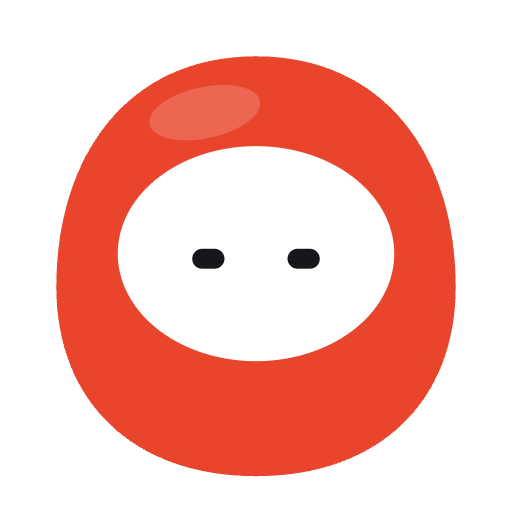
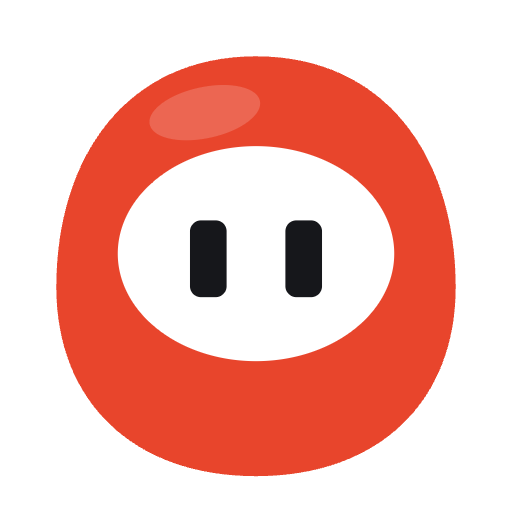
Paused, the daruma's eyes are the pause symbol
At the owner's request. Both eyes become Eye.pause — upright bars with rounded corners, a little
larger than an open eye — in the notch, the menu bar and the kit's paused expression, instead of
drowsy eyes that read as tired rather than stopped. Upright at any gaze and unblinking, so it
stays ⏸; narrowed as it turns, so it stays on the body.

Verified: Core figure, outline (the bar), app-source and prose tests; the probe (484); the app
builds; the kit's paused expression looked at. Each new Core test red under its mutation (tilt,
blink). Not run: the app tests, with the new pose expectations — the owner's Soredemo was running.

Changed region(s): [[0.5312, 0.4062, 0.6562, 0.5938], [0.3438, 0.4062, 0.4688, 0.5938]]

diff --git a/Core/Tests/RenderTests/CharacterAssets.swift b/Core/Tests/RenderTests/CharacterAssets.swift
@@ -36,6 +36,8 @@ private func eyeSVG(_ e: DarumaFigure.EyeMark, ink: String, red: String) -> Stri
     case .open, .sad:
         let r = min(e.width, e.height) / 2
         return "<rect x=\"\(n(e.x - e.width / 2))\" y=\"\(n(e.y - e.height / 2))\" width=\"\(n(e.width))\" height=\"\(n(e.height))\" rx=\"\(n(r))\" fill=\"\(ink)\" transform=\"rotate(\(n(e.tilt)) \(n(e.x)) \(n(e.y)))\"/>"
+    case .pause:
+        return "<rect x=\"\(n(e.x - e.width / 2))\" y=\"\(n(e.y - e.height / 2))\" width=\"\(n(e.width))\" height=\"\(n(e.height))\" rx=\"\(n(e.width * 0.3))\" fill=\"\(ink)\"/>"
     case .record:
         return "<circle cx=\"\(n(e.x))\" cy=\"\(n(e.y))\" r=\"\(n(e.width * 0.8))\" fill=\"\(red)\"/>"
 
@@ -145,7 +147,7 @@ private let recording = DarumaFace(right: .record)
     try write("svg/soredemo-character-white.svg", svg(100, oneColourGroup(.resting, "#FFFFFF")))
     // Expressions, in the default colour.
     let faces: [(String, DarumaFace)] = [("resting", .resting), ("looking", looking), ("recording", recording),
-                                         ("paused", DarumaFace(openness: 0.3)), ("done", DarumaFace(left: .happy, right: .happy)),
+                                         ("paused", DarumaFace(left: .pause, right: .pause)), ("done", DarumaFace(left: .happy, right: .happy)),
                                          ("asleep", DarumaFace(left: .closed, right: .closed)), ("sad", DarumaFace(left: .sad, right: .sad))]
     for (name, face) in faces {
         try write("svg/expressions/soredemo-character-\(name).svg", svg(100, characterGroup(face, vermilion)))

diff --git a/Core/Sources/Render/DarumaFigure.swift b/Core/Sources/Render/DarumaFigure.swift
@@ -5,8 +5,9 @@ import Geometry
 /// expression, and the countdown's ring. Numbers only — the app's reasons for each pose live
 /// beside the app's states (`DarumaPose` there).
 public struct DarumaFace: Equatable, Sendable {
-    /// One eye's expression. `record` is the right eye lit in the record red — the painted eye.
-    public enum Eye: Equatable, Sendable { case open, closed, happy, sad, record }
+    /// One eye's expression. `record` is the right eye lit in the record red — the painted eye;
+    /// `pause` is half the pause symbol, an upright bar.
+    public enum Eye: Equatable, Sendable { case open, closed, happy, sad, record, pause }
 
     /// −1 … 1: where it looks, left to right.
     public var yaw: Double
@@ -132,6 +133,9 @@ public struct DarumaFigure: Equatable, Sendable {
             // A line eye's width is its arc's whole span, a little wider than a pill so it reads —
             // and no wider, or a smile's two arcs meet in the middle (seen 2026-10-26).
             case .closed, .happy: height = 3.4 * size; width *= 1.2
+            // **The pause symbol, not a face**: upright wherever it looks, and unblinking — a bar
+            // that tipped or flattened would stop reading as ⏸. Narrowed as it turns, as an eye is.
+            case .pause: (width, height, tilt) = (8.4 * size * w * max(0.55, cos(ax)), 15 * size * h * max(0.8, cos(ay)), 0)
             }
             return EyeMark(x: x, y: y, width: width, height: max(height, 1.2), tilt: tilt, kind: eye)
         }

diff --git a/Soredemo/DesignSystem/DarumaView.swift b/Soredemo/DesignSystem/DarumaView.swift
@@ -40,12 +40,12 @@ extension DarumaFace {
                           recordPaint: remaining <= 1 ? paint : 1)
     }
 
-    /// The notch, per state: resting when offered; the record eye lit while a take runs; drowsy
-    /// while it is paused; both eyes smiling when it is done.
+    /// The notch, per state: resting when offered; the record eye lit while a take runs; the
+    /// pause symbol for eyes while it is paused; both eyes smiling when it is done.
     static func notch(_ state: NotchSurfaceState, isPaused: Bool) -> DarumaPose {
         switch state {
         case .dormant, .glance, .open: .resting
-        case .live: isPaused ? DarumaPose(openness: 0.3) : DarumaPose(openness: 0.9, right: .record)
+        case .live: isPaused ? DarumaPose(left: .pause, right: .pause) : DarumaPose(openness: 0.9, right: .record)
         case .finished: DarumaPose(left: .happy, right: .happy)
         }
     }
@@ -187,6 +187,8 @@ struct DarumaView: View, Animatable {
         switch e.kind {
         case .open, .sad:
             return Path(CGGeometryBridge.pill(centreX: x, centreY: y, width: e.width * u, height: e.height * u, tilt: e.tilt))
+        case .pause:
+            return Path(CGGeometryBridge.bar(centreX: x, centreY: y, width: e.width * u, height: e.height * u, corner: e.width * 0.3 * u))
         case .record:
             let r = e.width * 0.8 * u
             return Path(CGGeometryBridge.ellipse(centreX: x, centreY: y, radiusX: r, radiusY: r, tilt: 0))

diff --git a/Core/Tests/RenderTests/DarumaFigureTests.swift b/Core/Tests/RenderTests/DarumaFigureTests.swift
@@ -91,3 +91,21 @@ private let gazes: [(Double, Double)] = [(-1, -1), (-1, 0), (-1, 1), (0, -1), (0
     let disc = lit.eyes[1].width * 0.8
     #expect(lit.eyes[1].x - disc > lit.eyes[0].x + lit.eyes[0].width / 2 + 2, "the record eye reaches the other")
 }
+
+/// Paused, both eyes are the pause symbol: two upright bars, taller than an open eye, that stay
+/// upright and do not blink wherever it looks — and stay in the face and on the body.
+@Test func pausedTheEyesAreTwoUprightBars() {
+    let open = DarumaFigure.make(.resting).eyes[0]
+    for (yaw, pitch) in gazes {
+        for window in [true, false] {
+            let f = DarumaFigure.make(DarumaFace(yaw: yaw, pitch: pitch, left: .pause, right: .pause, faceWindow: window), blink: 0.1)
+            for eye in f.eyes {
+                #expect(eye.tilt == 0, "a bar tips at gaze \(yaw), \(pitch)")
+                let off = eye.outline().filter { window ? !f.face.contains(x: $0.x, y: $0.y, margin: 1) : !f.bodyContains(x: $0.x, y: $0.y, margin: 3) }
+                #expect(off.isEmpty, "a bar leaves the \(window ? "face" : "body") at gaze \(yaw), \(pitch)")
+            }
+        }
+    }
+    let bar = DarumaFigure.make(DarumaFace(left: .pause, right: .pause), blink: 0.1).eyes[0]
+    #expect(bar.height > open.height && bar.width > open.width, "taller and wider than an open eye, and unblinking")
+}

diff --git a/SoredemoTests/DarumaPoseTests.swift b/SoredemoTests/DarumaPoseTests.swift
@@ -38,13 +38,14 @@ import Testing
         #expect(DarumaPose.resting.countRing == nil, "nothing counted is no ring")
     }
 
-    /// A face per notch state: offered, it rests; recording, the record eye is lit; paused, it is
-    /// drowsy; done, it smiles with both eyes — the second eye painted.
+    /// A face per notch state: offered, it rests; recording, the record eye is lit; paused,
+    /// its eyes are the pause symbol; done, it smiles with both eyes — the second eye painted.
     @Test func theNotchsDarumaHasAFacePerState() {
         #expect(DarumaPose.notch(.glance, isPaused: false) == .resting)
         #expect(DarumaPose.notch(.live(expanded: true), isPaused: false).right == .record)
         let paused = DarumaPose.notch(.live(expanded: false), isPaused: true)
-        #expect(paused.right != .record && paused.openness < 0.5)
+        #expect(paused.left == .pause && paused.right == .pause, "paused, its eyes are the pause symbol")
+        #expect(DarumaMark.pose(for: .paused).left == .pause && DarumaMark.pose(for: .paused).right == .pause)
         let done = DarumaPose.notch(.finished, isPaused: false)
         #expect(done.left == .happy && done.right == .happy)
     }

diff --git a/Core/Sources/Capture/CGGeometryBridge.swift b/Core/Sources/Capture/CGGeometryBridge.swift
@@ -262,6 +262,13 @@ public enum CGGeometryBridge {
         return path
     }
 
+    /// An upright bar with rounded corners about its centre, in top-left points: half the pause
+    /// symbol the paused daruma's eyes make.
+    public nonisolated static func bar(centreX: Double, centreY: Double, width: Double, height: Double, corner: Double) -> CGPath {
+        CGPath(roundedRect: CGRect(x: centreX - width / 2, y: centreY - height / 2, width: width, height: height),
+               cornerWidth: corner, cornerHeight: corner, transform: nil)
+    }
+
     /// The brush that paints the record eye, in top-left points: one clockwise sweep from twelve
     /// o'clock at half of `radius`, so a stroke as wide as `radius` covers the disc when drawn
     /// whole — the eye fills like a clock hand, as the countdown's ring drains. `painted` (0 … 1)

diff --git a/Core/Tests/CaptureTests/DarumaOutlineTests.swift b/Core/Tests/CaptureTests/DarumaOutlineTests.swift
@@ -79,3 +79,11 @@ import Testing
     #expect(abs(quarter.x - 45) < 0.01 && abs(quarter.y - 60) < 0.01, "\(quarter)")
     #expect(CGGeometryBridge.brushSweep(centreX: 40, centreY: 60, radius: 10, painted: 0).isEmpty)
 }
+
+/// A pause bar: an upright rectangle with rounded corners, centred where it is put — off the origin.
+@Test func aBarIsAnUprightRoundedRectangleAboutItsCentre() {
+    let bar = CGGeometryBridge.bar(centreX: 40, centreY: 60, width: 6, height: 16, corner: 1.5)
+    let box = bar.boundingBoxOfPath
+    #expect(abs(box.midX - 40) < 0.01 && abs(box.midY - 60) < 0.01 && abs(box.width - 6) < 0.01 && abs(box.height - 16) < 0.01, "\(box)")
+    #expect(bar.contains(CGPoint(x: 40, y: 67.5)) && !bar.contains(CGPoint(x: 37.05, y: 52.05)), "square-ish, its corners rounded")
+}

diff --git a/Soredemo/Recording/MenuBar/MenuBarRecorderLabel.swift b/Soredemo/Recording/MenuBar/MenuBarRecorderLabel.swift
@@ -18,7 +18,7 @@ import SwiftUI
 ///
 /// **The mark is the daruma character, drawn** — the same figure the panel, the notch and the
 /// countdown draw, at 18 points (`DarumaMark`). Idle it looks ahead; counting down a red ring
-/// drains round its right eye; recording that eye is lit red; paused it is drowsy; when a take
+/// drains round its right eye; recording that eye is lit red; paused its eyes are ⏸; when a take
 /// finishes it smiles with both eyes for a moment. `MenuBarMark` decides which. The ink-only
 /// states are template images, so the system tints them; the two with red are not.
 struct MenuBarRecorderLabel: View {

diff --git a/Soredemo/Recording/MenuBar/MenuBarMark.swift b/Soredemo/Recording/MenuBar/MenuBarMark.swift
@@ -73,7 +73,7 @@ enum DarumaMark {
     static func pose(for state: MenuBarMark) -> DarumaPose {
         switch state {
         case .idle: .resting
-        case .paused: DarumaPose(openness: 0.3)
+        case .paused: DarumaPose(left: .pause, right: .pause)
         case .finished: DarumaPose(left: .happy, right: .happy)
         case .recording: DarumaPose(right: .record)
         case .countingDown(let ring): DarumaPose(countRing: ring)

diff --git a/docs/design/2026-10-27-the-daruma-tips-flies-and-paints.md b/docs/design/2026-10-27-the-daruma-tips-flies-and-paints.md
@@ -56,3 +56,13 @@ keeps its switch.
 mark, and the ink eye fading under it the whole way mixed with the red into brown.
 A round-capped sweep read as a bean, and an ink eye fading over a third of the sweep was still
 brown; the band is butt-capped — a clean wedge — and the ink eye goes in the first eighth.
+
+## 4. Paused, its eyes are the pause symbol (2026-10-27)
+
+The owner asked for pause eyes. Paused had been drowsy — eyes at 0.3 open — which read as tired,
+not as stopped. Now both eyes are `Eye.pause`: an upright bar with rounded corners, a little taller
+and wider than an open eye, so the face is ⏸ — in the notch, the menu bar and the brand kit's
+"paused" expression. **Upright wherever it looks and unblinking**, because a bar that tipped with
+the face or flattened in a blink would stop reading as the symbol; it narrows as it turns, as an eye
+does, so on the body at the widest gazes it stays on the body
+(`pausedTheEyesAreTwoUprightBars`, red with the face's tilt and with a blink applied).
